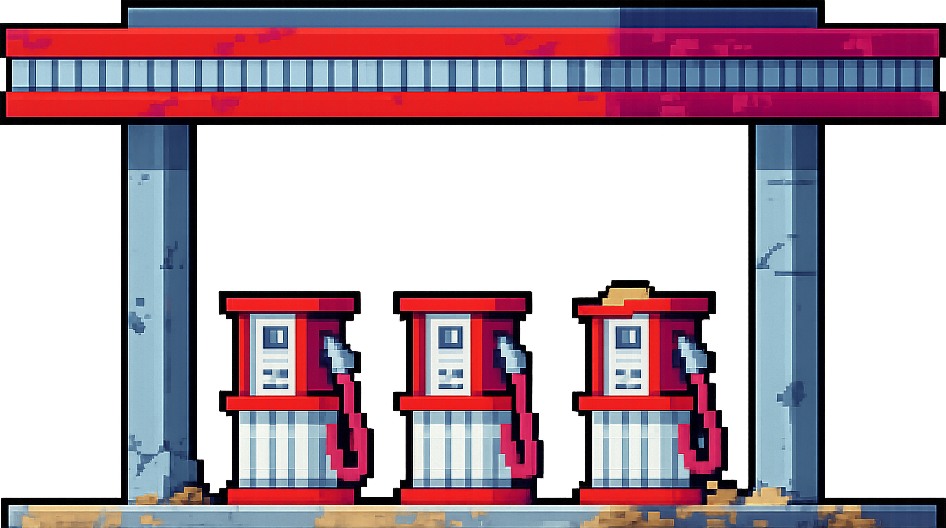
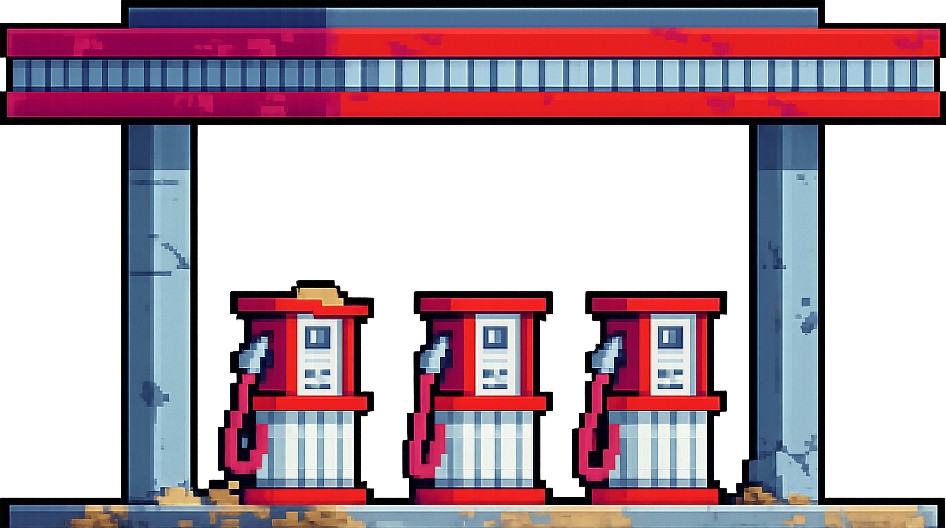
made the blocks under shops unbreakable + organized some scripts

diff --git a/DrillDown/Game1.cs b/DrillDown/Game1.cs
@@ -39,9 +39,10 @@ public class Game1 : Game
     private World world;
     private Camera camera;
     private HUD hud;
-    private GasStation gasStation;
-    private MineralsShop mineralsShop;
-    private RepairStation repairStation;
+    private List<Shop> shops = new();
+    /*private Shop gasStation;
+    private Shop mineralsShop;
+    private Shop repairStation;*/
 
     
     public Game1()
@@ -112,6 +113,7 @@ public class Game1 : Game
         SpriteManager.AddSprite("GasStation","Shops/GasStation");
         SpriteManager.AddSprite("MineralsShop","Shops/MineralsShop");
         SpriteManager.AddSprite("RepairStation","Shops/RepairShop");
+        SpriteManager.AddSprite("UpgradesShop","Shops/UpgradesShop");
         SpriteManager.AddSprite("Panel","Images/Panel");
         
         SpriteManager.AddSprite("DirtBlock","Blocks/DirtBlock");
@@ -196,7 +198,6 @@ public class Game1 : Game
         settingsButton.OnClick += () => Console.WriteLine("Settings");
         //gameManager.OnGameStart += () => IsMouseVisible = false;
         quitButton.OnClick += Exit;
-        
         Start();
         
     }
@@ -206,7 +207,7 @@ public class Game1 : Game
         hud = new HUD(player.Inventory,_font);
         player.world = world;
         player.PlayAnimation();
-        player.sortingOrder = 0.9f; //3f / totalLayers;
+        player.sortingOrder = 0.99f; //3f / totalLayers;
         player.collider.RegisterOnCollision(player.OnCollision);
         player.collider.RegisterOnTrigger(player.OnTrigger);
         player.OnFuelChange += hud.HandleFuelChange;
@@ -216,10 +217,11 @@ public class Game1 : Game
         startButton.Start();
         settingsButton.Start();
         quitButton.Start();
-
-        repairStation = new RepairStation("RepairStation", 0.3f, 20,player);
-        mineralsShop = new MineralsShop("MineralsShop",0.5f,30,player);
-        gasStation = new GasStation("GasStation",0.4f, 5,player);
+        shops.Add(new RepairStation("RepairStation", 0.3f, 65,player));
+        shops.Add(new MineralsShop("MineralsShop",0.5f,45,player));
+        shops.Add(new GasStation("GasStation",0.4f, 5,player));
+        //shops.Add(new GasStation("UpgradesShop",0.3f, 25,player));
+        MakeBlocksBelowShopsUnbreakable(shops);
         SceneManager.Instance.Start();
     }
 
@@ -238,13 +240,11 @@ public class Game1 : Game
                 break;
             case GameManager.GameState.Playing:
                 player.Update(gameTime);
-                gasStation.Update();
-                gasStation.UpdatePanel(gameTime);
-                repairStation.Update();
-                repairStation.UpdatePanel(gameTime);
-                mineralsShop.Update();
-                mineralsShop.UpdatePanel(gameTime);
-                
+                foreach (var shop in shops)
+                {
+                    shop.Update();
+                    shop.UpdatePanel(gameTime);
+                }
                 break;
             case GameManager.GameState.GameOver:
                 player.Update(gameTime);
@@ -270,15 +270,11 @@ public class Game1 : Game
             int row = (int)((player.tm.position.Y - groundLevel.Y) / blockSize);
             _spriteBatch.Draw(Button.Pixel, world.CellRect(row, col), Color.Red * 0.9f);*/
             SceneManager.Instance.Draw(_spriteBatch);
-            gasStation.Draw(_spriteBatch);
-            mineralsShop.Draw(_spriteBatch);
-            repairStation.Draw(_spriteBatch);
-            _spriteBatch.Draw(Button.Pixel, gasStation.EntranceBounds, Color.Black);
-            _spriteBatch.Draw(Button.Pixel, mineralsShop.EntranceBounds, Color.Blue);
-            _spriteBatch.Draw(Button.Pixel, repairStation.EntranceBounds, Color.Red);
-            gasStation.DrawPrompt(_spriteBatch);
-            repairStation.DrawPrompt(_spriteBatch);
-            mineralsShop.DrawPrompt(_spriteBatch);
+            foreach (var shop in shops)
+            {
+                shop.Draw(_spriteBatch);
+                shop.DrawPrompt(_spriteBatch);
+            }
         }
 
         if (gameManager.gameState == GameManager.GameState.GameOver)
@@ -289,9 +285,11 @@ public class Game1 : Game
         
         _spriteBatch.Begin();
         hud.Draw(_spriteBatch);
-        gasStation.DrawPanel(_spriteBatch);
-        repairStation.DrawPanel(_spriteBatch);
-        mineralsShop.DrawPanel(_spriteBatch);
+        foreach (var shop in shops)
+        {
+            shop.DrawPanel(_spriteBatch);
+        }
+
         if (gameManager.gameState == GameManager.GameState.MainMenu)
         {
             startButton.Draw(_spriteBatch);
@@ -300,5 +298,20 @@ public class Game1 : Game
         }
         _spriteBatch.End();
         base.Draw(gameTime);
+    }
+
+    private void MakeBlocksBelowShopsUnbreakable(List<Shop> shops)
+    {
+        foreach (Shop shop in shops)
+        {
+            Vector2 shopPos = shop.GetShopPosition();
+            int blocksCovered = shop.GetShopWidthInBlocks();
+            int shopStartingCol = world.WorldToCol(shopPos);
+            for (int c = shopStartingCol ; c < blocksCovered + shopStartingCol; c++)
+            {
+                Console.WriteLine(c);
+                world.SetBlockUnbreakable(0,c);
+            }
+        }
     }
 }

diff --git a/DrillDown/World.cs b/DrillDown/World.cs
@@ -1,4 +1,5 @@
 using System;
+using System.Collections.Generic;
 using Microsoft.Xna.Framework;
 using Microsoft.Xna.Framework.Graphics;
 
@@ -41,17 +42,17 @@ public class World : IDrawable
         }
     }
     
-    public Rectangle CellRect(int r, int c) => new Rectangle(
+    /*public Rectangle CellRect(int r, int c) => new Rectangle(
         (int)groundLevel.X + c * blockSize,
         (int)groundLevel.Y + r * blockSize,
-        blockSize, blockSize);
+        blockSize, blockSize);*/
     
     public bool IsSolid(Rectangle podRect)
     {
-        int leftCol   = (int)Math.Floor((podRect.Left       - groundLevel.X) / (float)blockSize);
-        int rightCol  = (int)Math.Floor((podRect.Right  - 1 - groundLevel.X) / (float)blockSize);
-        int topRow    = (int)Math.Floor((podRect.Top        - groundLevel.Y) / (float)blockSize);
-        int bottomRow = (int)Math.Floor((podRect.Bottom - 1 - groundLevel.Y) / (float)blockSize);
+        int leftCol   = (int)Math.Floor((podRect.Left - groundLevel.X) / blockSize);
+        int rightCol  = (int)Math.Floor((podRect.Right - 1 - groundLevel.X) / blockSize);
+        int topRow    = (int)Math.Floor((podRect.Top - groundLevel.Y) / blockSize);
+        int bottomRow = (int)Math.Floor((podRect.Bottom - 1 - groundLevel.Y) / blockSize);
 
         for (int r = topRow; r <= bottomRow; r++)
         {
@@ -66,15 +67,16 @@ public class World : IDrawable
     
     public int WorldToRow(Vector2 position)
     {
-        int row = (int)Math.Floor((position.Y - groundLevel.Y) / (float)blockSize);
+        int row = (int)Math.Floor((position.Y - groundLevel.Y) / blockSize);
         return row;
     }
 
     public int WorldToCol(Vector2 position)
     {
-        int col = (int)Math.Floor((position.X - groundLevel.X) / (float)blockSize);
+        int col = (int)Math.Floor((position.X - groundLevel.X) / blockSize);
         return col;
     }
+    
 
     public Material Drill(int row, int col, float deltaTime)
     {
@@ -82,7 +84,7 @@ public class World : IDrawable
 
         Block block = world[row, col];
         if (block == null) return null;
-        
+        if (!block.IsBreakable) return null;
         bool broken = block.isDrilled(deltaTime);
         if (broken)
         {
@@ -90,7 +92,14 @@ public class World : IDrawable
             world[row, col] = null;
             return dropped;
         }
-
         return null;
+    }
+
+    public void SetBlockUnbreakable(int row, int col)
+    {
+        if (row < 0 || row >= rows || col < 0 || col >= columns) return;
+        Block block = world[row, col];
+        if (block == null) return;
+        block.SetBlockUnbreakable();
     }
 }

diff --git a/DrillDown/Shop.cs b/DrillDown/Shop.cs
@@ -1,4 +1,5 @@
-using System.Collections.Generic;
+using System;
+using System.Collections.Generic;
 using Microsoft.Xna.Framework;
 using Microsoft.Xna.Framework.Graphics;
 using Microsoft.Xna.Framework.Input;
@@ -19,10 +20,12 @@ public class Shop : IDrawable
     private Text promptText;
     private float promptOffsetY = -50f;
     private float promptOffsetX = 40f;
+    private float scale;
     public Rectangle EntranceBounds => entranceBounds;
 
     protected Shop(string spriteName, float scale, float worldXPos, Player player)
     {
+        this.scale = scale;
         this.player = player;
         shopSprite = new Sprite(spriteName);
         shopSprite.BottomLeftOrigin();
@@ -105,5 +108,14 @@ public class Shop : IDrawable
     {
         isOpen = false;
     }
-    
+
+    public Vector2 GetShopPosition()
+    {
+        return shopSprite.tm.position;
+    }
+
+    public int GetShopWidthInBlocks()
+    {
+        return (int)Math.Ceiling(shopSprite.texture.Width * scale / Game1.blockSize);
+    }
 }

diff --git a/DrillDown/Block.cs b/DrillDown/Block.cs
@@ -7,7 +7,9 @@ public class Block
 {
     private BlockType type;
     private float drillProgress;
+    private bool isBreakable;
     
+    public bool IsBreakable => isBreakable;
     public Texture2D Texture => type.texture;
     public Material Material => type.material;
 
@@ -16,6 +18,7 @@ public class Block
     public Block(BlockType type)
     {
         this.type = type;
+        isBreakable = true;
     }
     
     public bool isDrilled(float amount)
@@ -23,5 +26,9 @@ public class Block
         drillProgress += amount;
         return drillProgress >= type.timeToDrill;
     }
-    
+
+    public void SetBlockUnbreakable()
+    {
+        isBreakable = false;
+    }
 }

diff --git a/DrillDown/Player.cs b/DrillDown/Player.cs
@@ -47,7 +47,7 @@ public class Player : Animation
     
     private DrillDirection drillDirection = DrillDirection.None;
     private DrillDirection movingDirection = DrillDirection.None;
-    private Dictionary<DrillDirection, Animation> animations = new Dictionary<DrillDirection, Animation>();
+    private Dictionary<DrillDirection, Animation> animations = new();
     private Dictionary<DrillDirection, Vector2> offsets = new()
     {
         { DrillDirection.Down,  new Vector2(0, 32f) },
